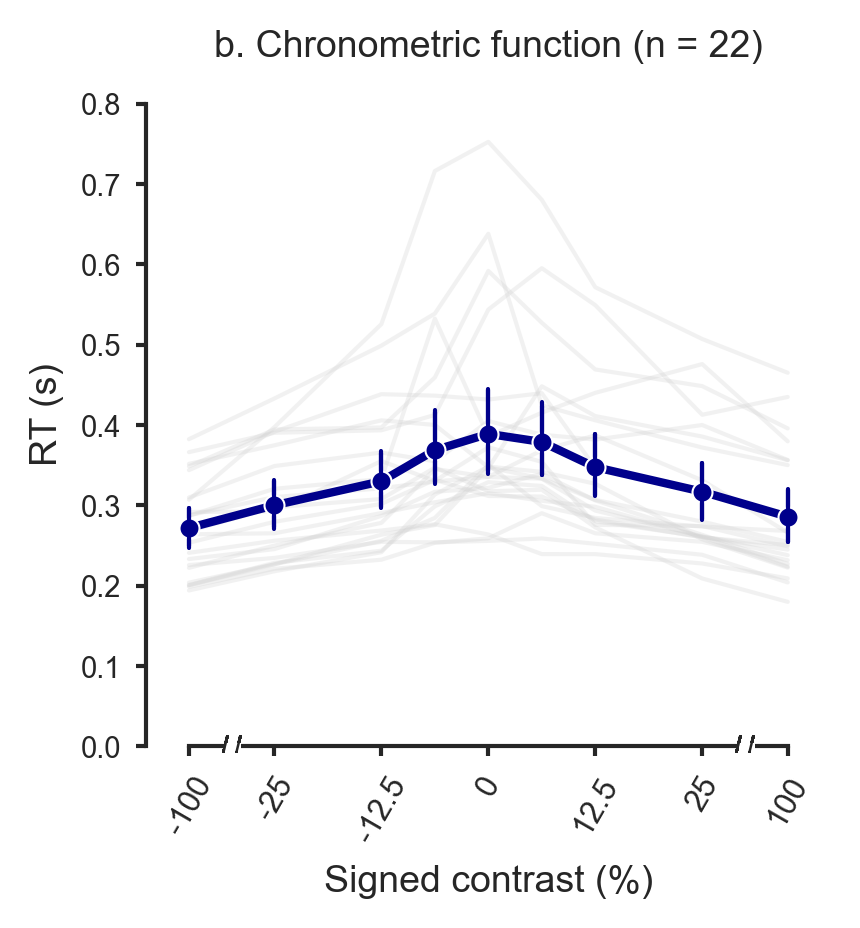
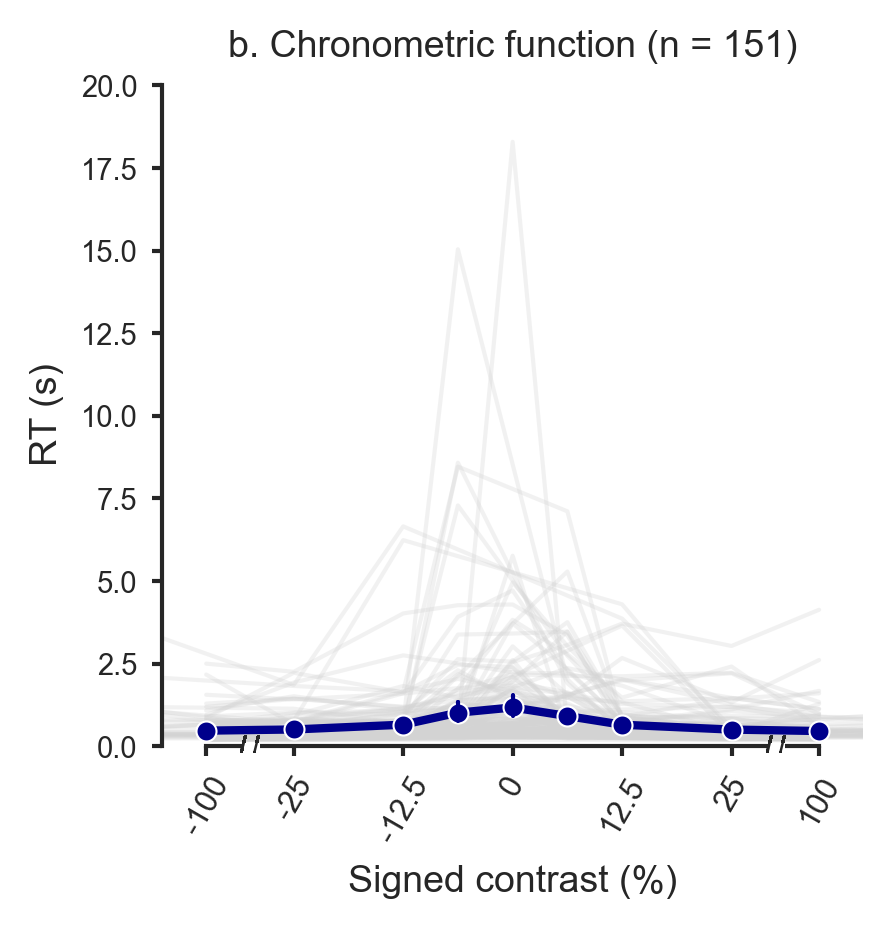
use full subjectTrials.table instead, to get many more subjects. still need to add filtering based on good behavior

diff --git a/src/get_ibl_data.py b/src/get_ibl_data.py
@@ -16,8 +16,9 @@ import seaborn as sns
 import matplotlib.pyplot as plt
 import utils_choice_history as more_tools
 import brainbox.behavior.training as training
-from brainbox.behavior.training import query_criterion
+# from brainbox.behavior.training import query_criterion
 from datetime import datetime
+import re 
 
 #from ibllib.io.extractors.training_wheel import extract_wheel_moves, extract_first_movement_times
 #from brainbox.io.one import load_wheel_reaction_times
@@ -41,124 +42,197 @@ script_dir = os.path.dirname(os.path.realpath(__file__))
 fig_folder_path = os.path.join(script_dir, '..', '..', '2023_choicehistory_HSSM','results', 'figures')
 data_folder_path = os.path.join(script_dir, '..', '..', '2023_choicehistory_HSSM', 'data')
 
+whichTask  = 'trainingChoiceWorld' # 'trainingChoiceWorld' or 'ephysChoiceWorld'
+
 #  ============================================ #
 # %% FIRST, FIND SUBJECTS OF INTEREST
-whichTask  = 'trainingChoiceWorld' # 'trainingChoiceWorld' or 'ephysChoiceWorld'
-eids, info = one.search(project='brainwide', dataset='trials.table', 
-                        task_protocol = whichTask,
-                        details=True)
-df_info = pd.DataFrame(info).sort_values(by=['lab', 'subject', 'date', 'number'])
+# from https://www.biorxiv.org/content/10.1101/2023.12.22.573001v1.full
+# use the Bruijns et al tag to grab only subjects that have the subjectTraining.table released
+regexp = re.compile(r'Subjects/\w*/((\w|-)+)/_ibl') 
+datasets = one.alyx.rest('datasets', 'list', tag='2023_Q4_Bruijns_et_al') # extract subject names 
+subjects = np.unique(np.sort([regexp.search(ds['file_records'][0]['relative_path']).group(1) for ds in datasets])) # reduce to list of unique names 
 
-subjects = np.sort(np.unique([i['subject'] for i in info]))
 print('number of subjects: ')
 print(len(subjects))
-
-# for now, restrict to keep manageable
-#subjects = subjects[0:10]
 print(subjects)
 
 #%% SECOND, FIND WHICH SESSIONS WE'D LIKE TO USE
-eids_to_use = []
-for subject in subjects:
+# date_check = []
+# for subject in tqdm(subjects):
 
-    # what was the training status at each session?
-    eids, info = one.search(subject=subject, 
-                            dataset=['trials.table'], 
-                            details=True)
-    df_info = pd.DataFrame(info).sort_values(by=['lab', 'subject', 'date', 'number'])
-    df_info['date'] = pd.to_datetime(df_info['date'], utc = True)
-    df_info['eid'] = eids
+#     # what was the training status at each session?
+#     eids, info = one.search(subject=subject, 
+#                             dataset=['trials.table'], 
+#                             details=True)
+#     try: assert(len(info) > 0); #check we get something back that makes sense
+#     except: continue
+#     df_info = pd.DataFrame(info).sort_values(by=['lab', 'subject', 'date', 'number'])
+#     df_info['date'] = pd.to_datetime(df_info['date'], utc = True)
+#     date_check.append({'subject': np.repeat(subject, df_info['date'].nunique()),
+#                         'source':np.repeat('trials_table', df_info['date'].nunique()),
+#                         'date': df_info['date'].unique()})
+
+#     #print('info from trials.table')
+#     #print(df_info['date'].describe())
+#     trials_agg = one.load_aggregate('subjects', subject, '_ibl_subjectTrials.table')
+#     #date_check.append({'subject': subject, 'source':'subjecttrials_table','date': trials_agg['session_start_time'].unique()})
+
+#     date_check.append({'subject': np.repeat(subject, trials_agg['session_start_time'].nunique()),
+#                         'source':np.repeat('subjecttrials_table', trials_agg['session_start_time'].nunique()),
+#                         'date': trials_agg['session_start_time'].unique()})
+    
+#     #print('info from subjectTrials.table')
+#     #print(trials_agg['session_start_time'].describe())
+#     training_status = one.load_aggregate('subjects', subject, 
+#                                         '_ibl_subjectTraining.table').reset_index()
+#     training_status['date'] = pd.to_datetime(training_status['date'], utc = True)
+#     #date_check.append({'subject': subject, 'source':'subjecttraining_table','date': training_status['date'].unique()})
+
+#     date_check.append({'subject': np.repeat(subject, training_status['date'].nunique()),
+#                         'source':np.repeat('subjecttraining_table', training_status['date'].nunique()),
+#                         'date': training_status['date'].unique()})
+
+    
+#     #print('info from subjectTraining.table')
+#     #print(training_status['date'].describe())
+
+# date_df = pd.concat([pd.DataFrame(d) for d in date_check])
+# fig = sns.FacetGrid(date_df, col='subject', col_wrap=8, sharey=False, hue='source')
+# fig.map(sns.swarmplot, 'source', 'date').add_legend()
+# plt.savefig(os.path.join(fig_folder_path, 'ibl_date_check.png'))
+
+#     #df_info_orig = df_info.copy()
 
 
-    try: training_status = one.load_aggregate('subjects', subject, 
-                                        '_ibl_subjectTraining.table').reset_index()
-    except: print('skipping %s, could not load subjectTraining.table'%subject); continue
-    training_status['date'] = [datetime.strptime(d, '%Y-%m-%d') for d in training_status['date']]
-    training_status['date'] = pd.to_datetime(training_status['date'], utc = True)
+    
+# assert(1==0)
+#sess = trials_agg['session_start_time'].unique()
 
-    # Join to sessions table table - some wrangling needed to match on dates
-    df_info = df_info.set_index('date').join(training_status.set_index('date'))
-    df_info['training_status'] = df_info.training_status.fillna(method='ffill')
-    df_info = df_info.reset_index()
+#%%
+
+big_trials_df = []
+for subject in tqdm(subjects):
+
+    # # what was the training status at each session?
+    # eids, info = one.search(subject=subject, 
+    #                         dataset=['trials.table'], 
+    #                         details=True)
+    # #try: assert(len(info) > 0); #check we get something back that makes sense
+    # #except: continue
+    # df_info = pd.DataFrame(info).sort_values(by=['lab', 'subject', 'date', 'number'])
+    # df_info['date'] = pd.to_datetime(df_info['date'], utc = True)
+    # df_info['eid'] = eids
+
+    # try: assert (any(df_info['task_protocol'].str.contains('trainingChoiceWorld')))
+    # except: print('skipping %s, no trainingChoiceWorld for '%subject); continue
+
+    # # grab this subjects trainingTable
+    # try: training_status = one.load_aggregate('subjects', subject, 
+    #                                     '_ibl_subjectTraining.table').reset_index()
+    # except: print('skipping %s, could not load subjectTraining.table'%subject); continue
+    # training_status['date'] = [datetime.strptime(d, '%Y-%m-%d') for d in training_status['date']]
+    # training_status['date'] = pd.to_datetime(training_status['date'], utc = True)
+    # # confirm that this animal reached 'trained'
+    # try: assert training_status['training_status'].str.contains('trained').any()
+    # except: print('skipping %s, no trained status'%subject); continue
+
+    # # now get all of the trials for this subject as well
+    # trials_agg = one.load_aggregate('subjects', subject, '_ibl_subjectTrials.table')
+
+    # # Join to sessions table table - some wrangling needed to match on dates
+    # df_info = df_info.set_index('date').join(training_status.set_index('date'))
+    # df_info['training_status'] = df_info.training_status.fillna(method='ffill')
+    # df_info = df_info.reset_index()
+
+    ####
+    # Load training status and join to trials table, https://int-brain-lab.github.io/iblenv/notebooks_external/loading_trials_data.html#Loading-all-the-sessions'-trials-for-a-single-subject-at-once
+    trials = one.load_aggregate('subjects', subject, '_ibl_subjectTrials.table')
+    training_table = one.load_aggregate('subjects', subject, '_ibl_subjectTraining.table')
+    trials = (trials
+            .set_index('session')
+            .join(training_table.set_index('session'))
+            .sort_values(by=['session_start_time', 'intervals_0']))
+    trials['training_status'] = trials.training_status.fillna(method='ffill')
 
     # now get all the sessions for this subject
     if whichTask == 'trainingChoiceWorld':
 
         # find the sessions where the animal was trained_1a OR trained_1b
-        try: first_day_trained = df_info[df_info['training_status'].str.contains("trained")].index[0]
+        try: first_day_trained = trials[trials['training_status'].str.contains("trained")]['session_start_time'].iloc[0]
         except: print('skipping %s, could not identify first day trained'%subject); continue
-        # now find the 3 days before this
-        three_sessions_before_trained = df_info.iloc[first_day_trained-3:first_day_trained]
 
-        # assert that all of these have the task protocol including trainingchoiceworld
-        assert (all(three_sessions_before_trained['task_protocol'].str.contains('trainingChoiceWorld')))
+        # now find the 3 days before this
+        all_dates = np.sort(trials['session_start_time'].unique())
+        first_trained_loc = np.where(all_dates == first_day_trained)[0][0]
+        three_dates_before_trained = all_dates[first_trained_loc-3:first_trained_loc]
+
+        # subset the dataframe to only include these sessions
+        trials = trials[trials['session_start_time'].isin(three_dates_before_trained)]   
 
         # assert that this returns 3 sessions per mouse
-        try: assert (len(three_sessions_before_trained)) == 3
+        try: assert (trials['session_start_time'].nunique()) == 3
         except: print('skipping %s, did not find 3 sessions before trained'%subject); continue 
 
-        # assert that we have good enough behavior
-        add_to_list = True
-        for eid_to_check in three_sessions_before_trained['eid'].tolist():
-            trials_obj = one.load_object(eid_to_check, 'trials')
-            performance_easy = training.compute_performance_easy(trials_obj)
-            try: assert performance_easy > 0.9
-            except: add_to_list = False; print('skipping %s, performance too low'%subject); continue
+        # assert that all of these have the task protocol including trainingchoiceworld
+        assert (all(trials['task_protocol'].str.contains('trainingChoiceWorld')))
+
+        # complete the df to include all we need
+        trials['signed_contrast'] = 100 * np.diff(np.nan_to_num(np.c_[trials['contrastLeft'], 
+                                                        trials['contrastRight']]))
+        trials['abs_contrast'] = np.abs(trials['signed_contrast'])
+        trials['trialnum'] = trials.groupby(['session_start_time']).cumcount()
+        # use a very crude measure of RT: trial duration 
+        trials['rt'] = trials['response_times'] - trials['goCue_times']
+        # additionally, save the movement onset
+        trials['movement_onset'] = trials['firstMovement_times'] - trials['goCue_times']
+        trials['response'] = trials['choice'].map({1: 0, 0: np.nan, -1: 1})
+        trials['correct']  = trials['feedbackType']
+        trials['prior_bias'] = trials['probabilityLeft']
+        # for trainingChoiceWorld, the probabilityLeft is always 0.5
+        if whichTask == 'trainingChoiceWorld':
+            trials['prior_bias'] = 0.5
+        # retrieve the mouse name, session etc
+        trials['subj_idx'] = subject
+        trials['eid'] = trials.index
+
+        # assert that we have good enough behavior in each session
+        perf = trials.groupby(['session_start_time', 'abs_contrast'])['feedbackType'].mean()
+
+        # check that performance is above 90% for all easy trials
+        # check that we have all contrasts introduced in each session
+        # check that we have > 400 trials in each session
+
+        # add_to_list = True
+        # for eid_to_check in trials['eid'].tolist():
+        #     trials_obj = one.load_object(eid_to_check, 'trials')
+        #     performance_easy = training.compute_performance_easy(trials_obj)
+        #     try: assert performance_easy > 0.9
+        #     except: add_to_list = False; print('skipping %s, performance too low'%subject); continue
     
+
+
     #print('adding sessions for %s'%subject)
-    if add_to_list:
-        print('adding %s to df'%subject)
-        for eid in three_sessions_before_trained['eid']:
-            eids_to_use.append(eid) # append
-
-print('# sessions included:')
-print(len(np.unique(eids_to_use)))
-print('# subjects included:')
-print(len(np.unique(eids_to_use)) / 3)
-
-# %% THIRD, GET TRIALS TABLE FOR ALL OF THESE
-behav = [] # all behavior for all animals
-for eid in tqdm(eids_to_use): # dont use all for now...
-
-    trials_obj = one.load_object(eid, 'trials', collection='alf')
-
-    # trials_obj = one.load_object(eid, 'trials')
-    trials_obj['signed_contrast'] = 100 * np.diff(np.nan_to_num(np.c_[trials_obj['contrastLeft'], 
-                                                        trials_obj['contrastRight']]))
-    
-    # use a very crude measure of RT: trial duration 
-    trials_obj['rt'] = trials_obj['response_times'] - trials_obj['goCue_times']
-    # additionally, save the movement onset
-    trials_obj['movement_onset'] = trials_obj['firstMovement_times'] - trials_obj['goCue_times']
-
-    trials = trials_obj.to_df() # to dataframe
-    trials['trialnum'] = trials.index # to keep track of choice history
-    trials['response'] = trials['choice'].map({1: 0, 0: np.nan, -1: 1})
-    trials['correct']  = trials['feedbackType']
-    trials['prior_bias'] = trials['probabilityLeft']
-    # for trainingChoiceWorld, the probabilityLeft is always 0.5
-    if whichTask == 'trainingChoiceWorld':
-        trials['prior_bias'] = 0.5
-
-    # retrieve the mouse name, session etc
-    ref_dict = one.eid2ref(eid)
-    trials['eid'] = eid
-    trials['subj_idx'] = ref_dict.subject
-    trials['date'] = ref_dict.date
-    behav.append(trials)
+    #print('adding %s to df'%subject)
+    big_trials_df.append(trials) # append
 
 # continue only with some columns we need
-data = pd.concat(behav)
-data = data[['eid', 'subj_idx', 'date', 'signed_contrast', 'prior_bias',
+data = pd.concat(big_trials_df).reset_index()
+data_orig = data.copy()
+data = data[['eid', 'subj_idx', 'session_start_time', 'signed_contrast', #'prior_bias',
          'response', 'rt', 'movement_onset', 'correct', 'trialnum']]
+
+print('# sessions included:')
+print(len(np.unique(data.session_start_time)))
+print('# subjects included:')
+print(len(np.unique(data.subj_idx)))
 
 # %% FOURTH, CLEAN AND PREPROCESS THE DATA
 
 # remove RTs that sit outside the cutoff window
 # define how we quantify RTs
-data['rt_raw'] = data['rt'].copy()
-data['rt'] = more_tools.clean_rts(data['rt'], cutoff=[0.08, 2], 
-                                  compare_with=None)
+# data['rt_raw'] = data['rt'].copy()
+# data['rt'] = more_tools.clean_rts(data['rt'], cutoff=[0.08, 2], 
+#                                   compare_with=None)
 
 # add choice history information
 data = more_tools.compute_choice_history(data)
@@ -171,3 +245,5 @@ data.to_csv(os.path.join(data_folder_path, 'ibl_%s_clean.csv'%whichTask),
             index=False)
 print('saved file to:')
 print(os.path.join(data_folder_path, 'ibl_%s_clean.csv'%whichTask))
+
+# %%
